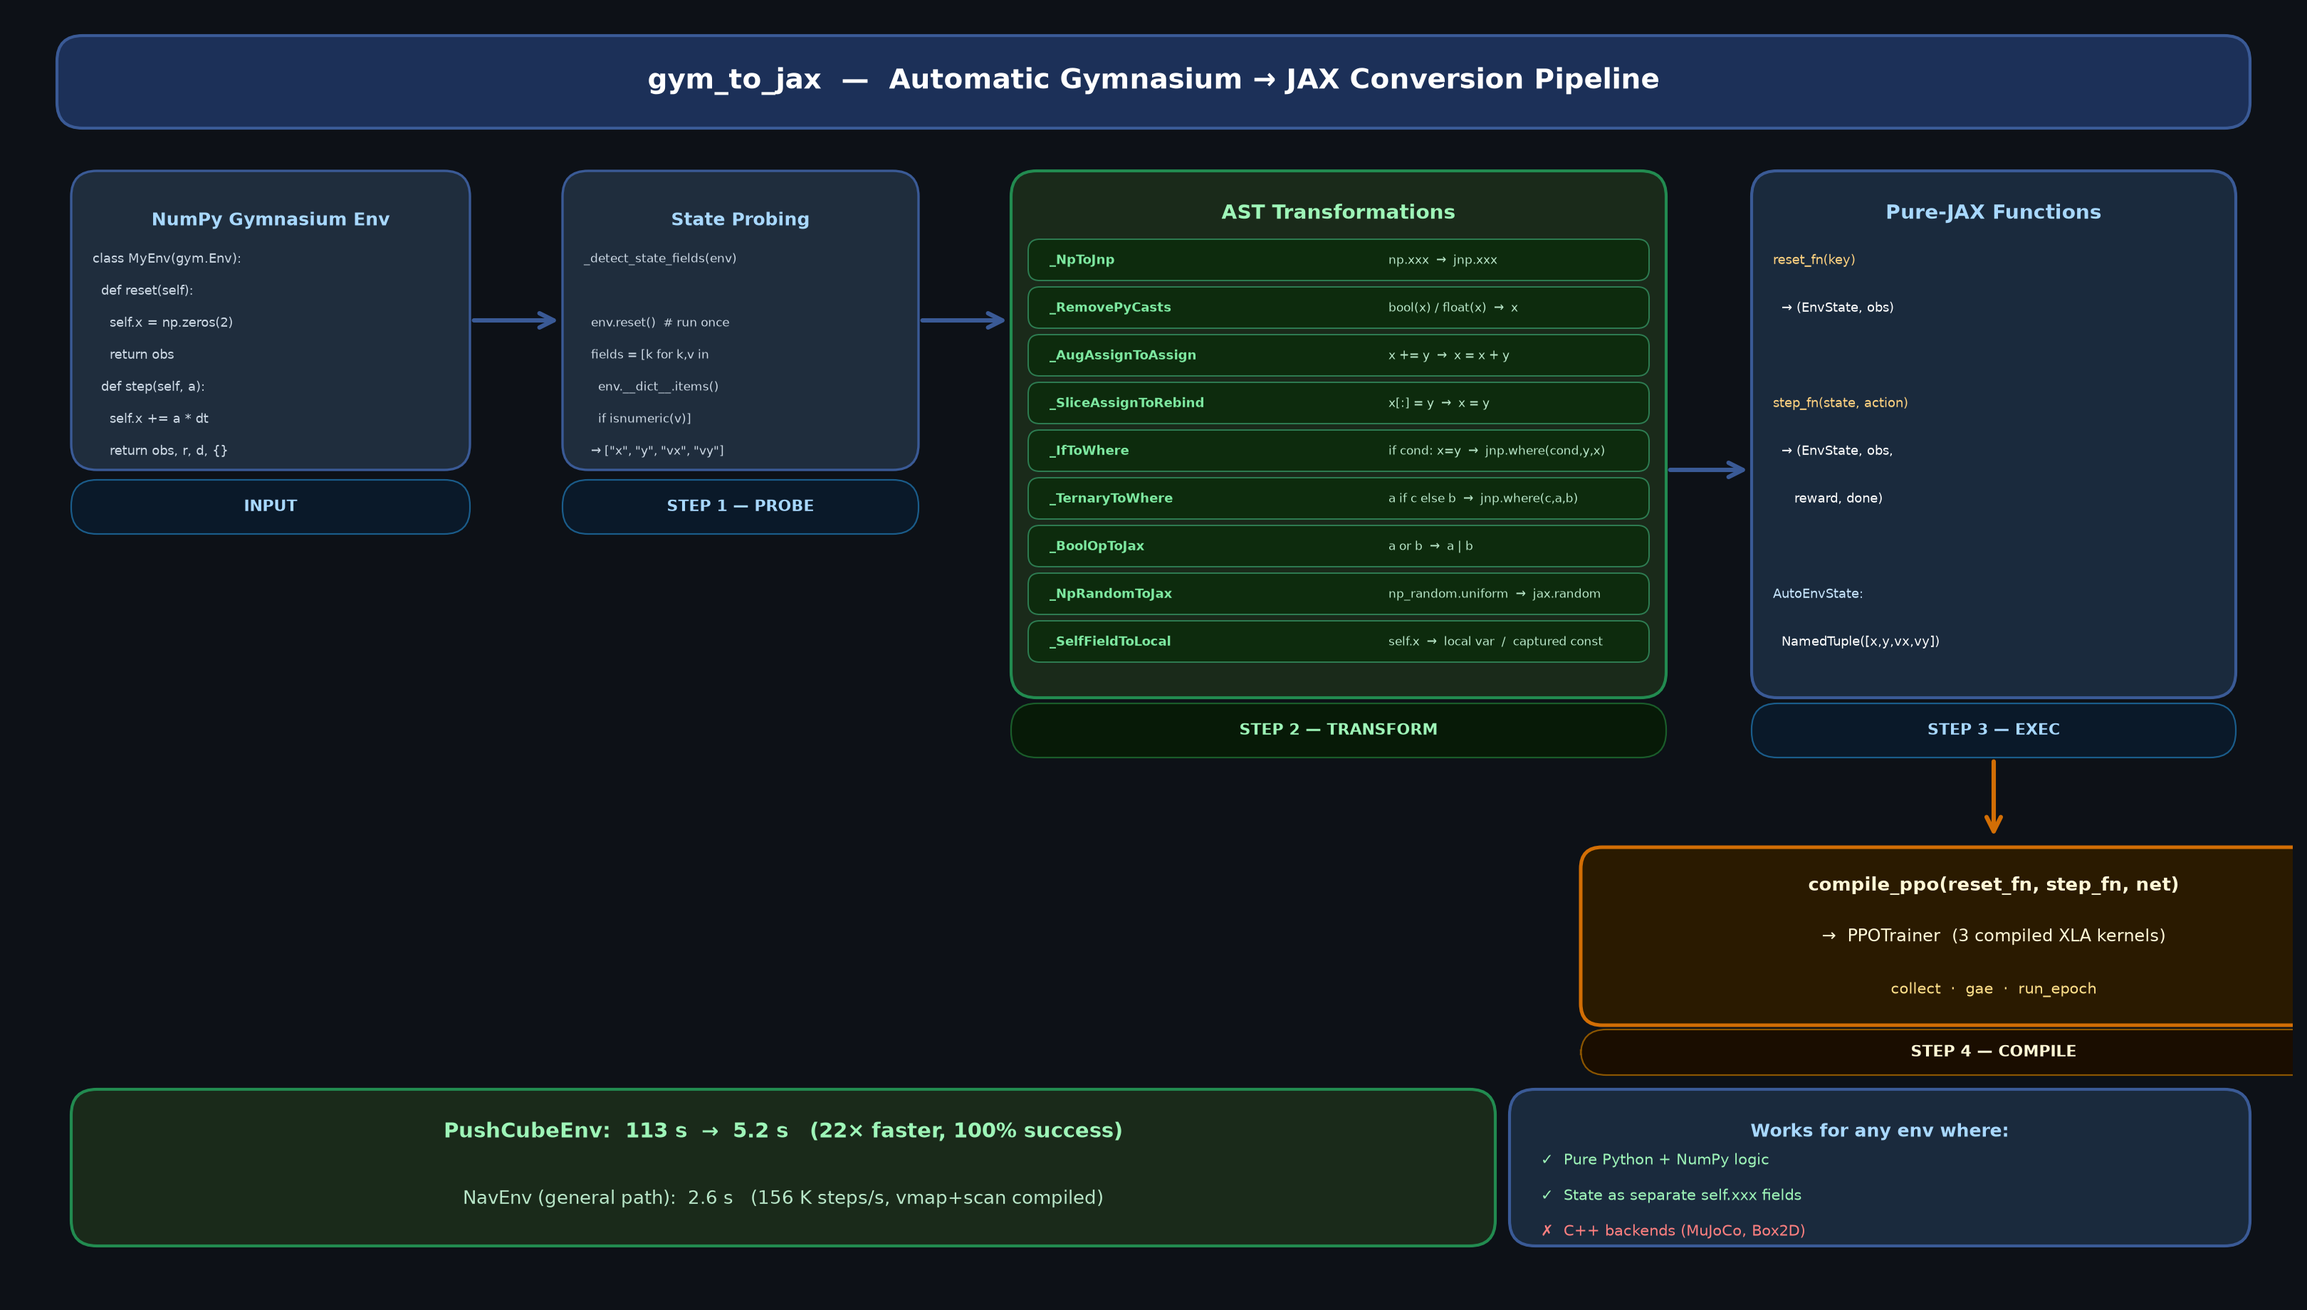
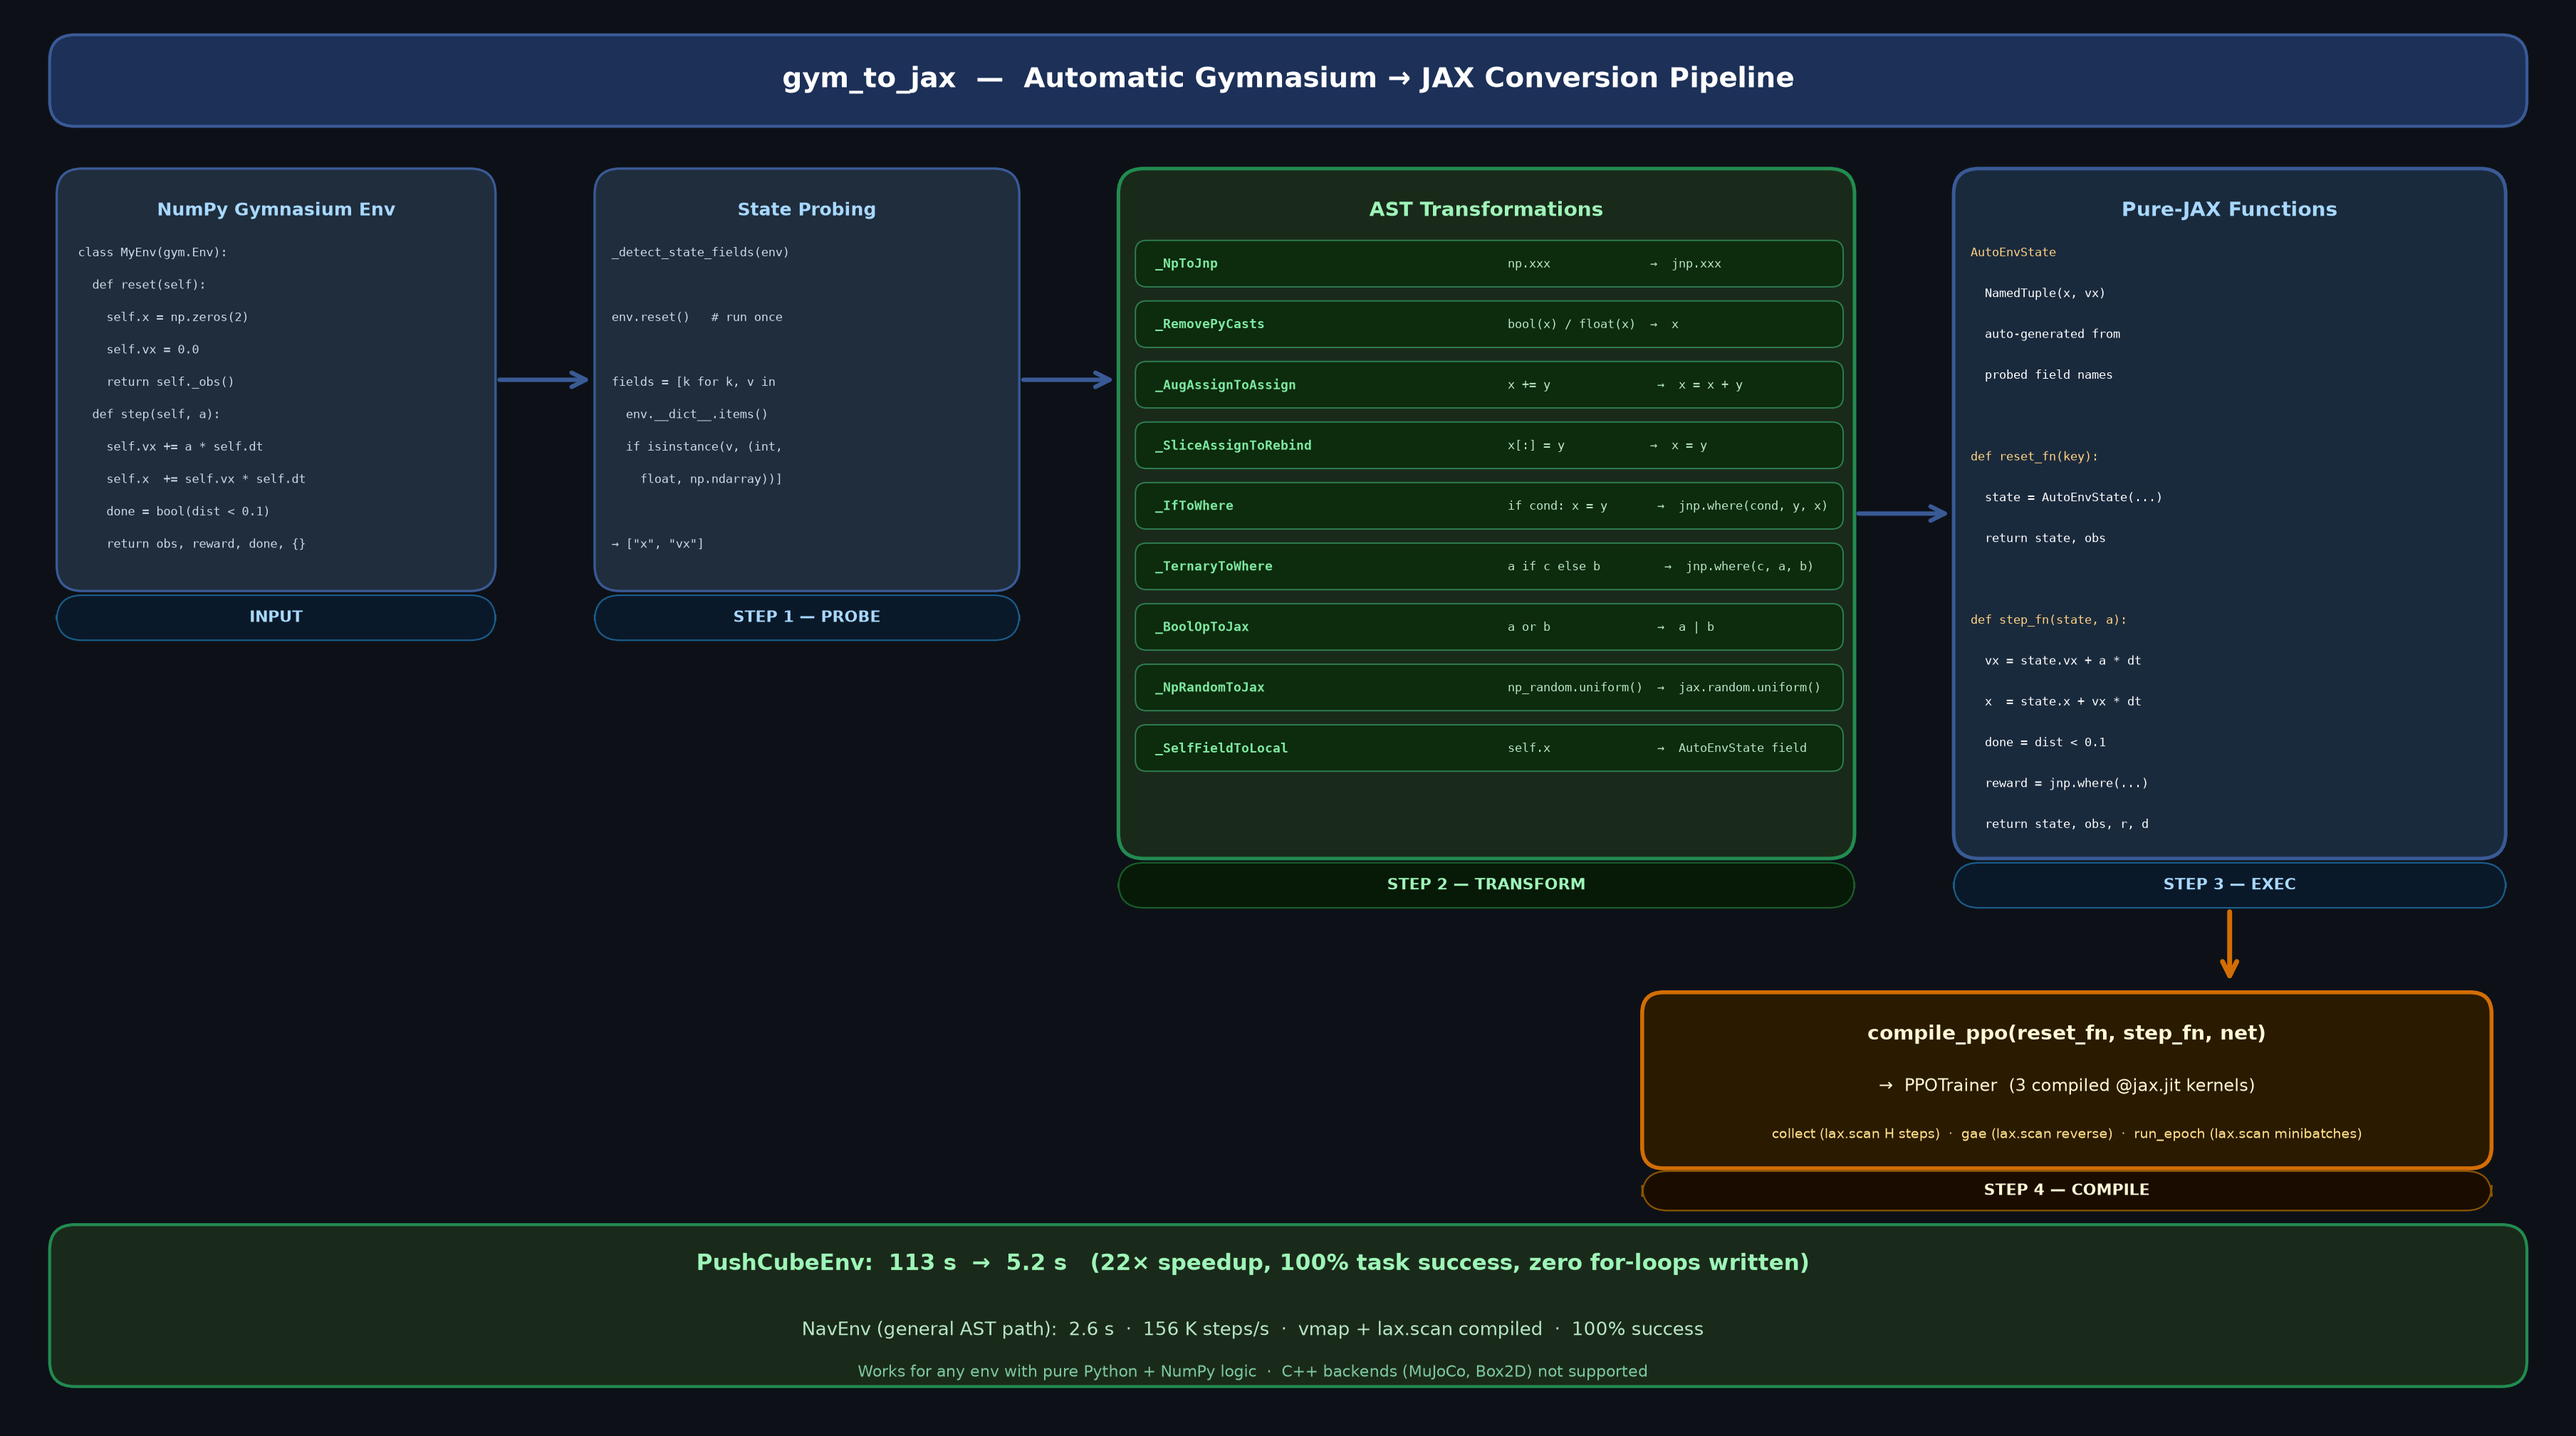
Fix AST diagram clipping, reorder README: robots→framework→AST→results, expand compile_ppo kernel docs

Changed region(s): [[0.0, 0.0, 0.9975, 0.9913]]

diff --git a/README.md b/README.md
@@ -10,15 +10,123 @@
 
 <br>
 
-![Pipeline diagram](assets/plots/pipeline_diagram.png)
+Contact-rich robot manipulation is bottlenecked by Python interpreter overhead. Every PPO gradient update requires thousands of env steps, all gated by `for` loops that stall the CPU waiting for the interpreter instead of computing. This project eliminates those bottlenecks by compiling the full training loop into JAX/XLA — and ships two tools that let you do it for **any Gymnasium env** without rewriting it by hand.
 
-Contact-rich robot manipulation is bottlenecked by Python interpreter overhead. Every PPO gradient update requires thousands of env steps, all gated by `for` loops that stall the CPU waiting for the interpreter instead of computing. This project eliminates those bottlenecks by compiling the full training loop into JAX/XLA — and ships two tools that let you do it for any Gymnasium env without rewriting it by hand.
+We developed two components:
+
+- **`gym_to_jax`** — an AST-based converter that takes any NumPy Gymnasium env and produces `vmap`/`scan`-safe pure JAX functions automatically, via a pipeline of 9 source transformers
+- **`compile_ppo`** — a one-call framework that wraps any `(reset_fn, step_fn)` pair into three compiled `@jax.jit` kernels covering rollout collection, GAE, and minibatch updates — zero `for`-loops written by the caller
+
+Together they take a standard NumPy Gymnasium env to a 22× faster compiled training loop with a three-line call.
+
+---
+
+## Framework
+
+```
+NumPy Gymnasium env
+        │
+        ▼  gym_to_jax()   [9 AST transformers → pure JAX functions]
+(reset_fn, step_fn)
+        │
+        ▼  compile_ppo()  [jax.jit + lax.scan compilation]
+  PPOTrainer
+  ├── collect()     jax.jit — lax.scan over H steps, vmap over N envs, auto-reset
+  ├── gae()         jax.jit — lax.scan(reverse=True) advantage estimation
+  └── run_epoch()   jax.jit — lax.scan over shuffled minibatches per epoch
+```
+
+```python
+from ewm.gym_to_jax import gym_to_jax
+from ewm.jax_convert import compile_ppo, PPOConfig
+
+reset_fn, step_fn = gym_to_jax(MyEnv)                                   # convert
+trainer = compile_ppo(reset_fn, step_fn, net, obs_dim=4, action_dim=2)  # compile
+result  = trainer.train(PPOConfig(num_envs=256, updates=300), seed=0)   # train
+# → {"wall_time_s": 5.2, "steps_per_second": 118500}   (22× vs Python baseline)
+```
+
+### `gym_to_jax` — AST conversion pipeline
+
+![AST pipeline](assets/plots/ast_pipeline.png)
+
+`gym_to_jax` parses the source of any NumPy Gymnasium env, applies nine AST transformers, and `exec`s the result to produce a `(reset_fn, step_fn)` pair compatible with `jax.jit`, `jax.vmap`, and `jax.lax.scan`. State structure is discovered automatically by probing `env.__dict__` after `reset()`.
+
+**Before** (standard NumPy Gymnasium env):
+```python
+def step(self, action):
+    self.vx += action[0] * self.dt       # augmented assign
+    self.x  += self.vx * self.dt
+    dist     = np.linalg.norm(self.x - self.goal)
+    done     = bool(dist < 0.1)          # Python cast
+    reward   = float(dist < 0.1)
+    return self._obs(), reward, done, {}
+```
+
+**After** (auto-generated — `vmap`/`scan`-safe):
+```python
+def step_fn(state, action):
+    vx = state.vx + action[0] * dt      # AugAssign → rebind
+    x  = state.x  + vx * dt
+    dist   = jnp.linalg.norm(x - goal)  # np → jnp
+    done   = dist < 0.1                  # bool() removed
+    reward = jnp.where(done, 1.0, 0.0)  # ternary → jnp.where
+    return AutoEnvState(x=x, vx=vx), obs_fn(x), reward, done
+```
+
+| Transformer | Before | After |
+|---|---|---|
+| `_NpToJnp` | `np.linalg.norm(x)` | `jnp.linalg.norm(x)` |
+| `_RemovePyCasts` | `bool(x)`, `float(x)` | `x` |
+| `_AugAssignToAssign` | `x += y` | `x = x + y` |
+| `_SliceAssignToRebind` | `x[:] = y` | `x = y` |
+| `_IfToWhere` | `if cond: x = y` | `x = jnp.where(cond, y, x)` |
+| `_TernaryToWhere` | `a if c else b` | `jnp.where(c, a, b)` |
+| `_BoolOpToJax` | `a or b` / `a and b` | `a \| b` / `a & b` |
+| `_NpRandomToJax` | `self.np_random.uniform(lo, hi)` | `jax.random.uniform(key, minval=lo, maxval=hi)` |
+| `_SelfFieldToLocal` | `self.x`, `self.vx` | local vars packed into `AutoEnvState` NamedTuple |
+
+**Compatibility:** pure Python + NumPy logic with separate `self.field` state vars. Envs with C++ backends (MuJoCo, Box2D) cannot be auto-converted.
+
+### `compile_ppo` — three compiled XLA kernels
+
+**Kernel 1 — `collect(states, obs, params, key)`**
+
+Runs `H` steps across `N` parallel envs as a single `lax.scan`. Inside, `jax.vmap(step_fn)` batches all envs into one SIMD call. Done envs are reset functionally via `jnp.where` — no Python branching.
+
+```python
+(states, obs, params), traj = jax.lax.scan(step_body, carry, None, length=H)
+# traj: _Trajectory buffer shaped (H, N, …)
+```
+
+**Kernel 2 — `gae(rewards, values, dones, last_value)`**
+
+GAE backward pass as `lax.scan(reverse=True)` — no Python backward loop.
+
+```
+δₜ = rₜ + γ·V(sₜ₊₁)·(1−dₜ) − V(sₜ)
+Aₜ = δₜ + γλ·(1−dₜ)·Aₜ₊₁
+```
+
+```python
+_, adv = jax.lax.scan(gae_step, (zeros, last_value), (rewards, values, dones), reverse=True)
+```
+
+**Kernel 3 — `run_epoch(params, opt_state, key, obs, actions, …)`**
+
+Shuffles the flattened trajectory and runs one PPO epoch across all minibatches via `lax.scan`. Each minibatch computes clipped surrogate loss + value loss + entropy bonus and applies an Adam step.
+
+```python
+(params, opt_state), losses = jax.lax.scan(_update_mb, (params, opt_state), minibatches)
+```
 
 ---
 
 ## Results
 
 ![Speedup bar charts](assets/plots/speedup_bars.png)
+
+![Pipeline diagram](assets/plots/pipeline_diagram.png)
 
 ### End-to-end training (16 envs, 300 updates, H=128)
 
@@ -30,7 +138,7 @@ Contact-rich robot manipulation is bottlenecked by Python interpreter overhead. 
 
 All reach **100% task success**. The speedup is lossless.
 
-The 17× end-to-end vs 7.8× rollout-only gap comes from the GAE backward pass and minibatch loop each also being compiled; eliminating just one loop undersells the gain.
+The 17× end-to-end vs 7.8× rollout-only gap comes from the GAE backward pass and minibatch loop each also being compiled — eliminating just one loop undersells the gain.
 
 ### Throughput scaling (rollout collection only)
 
@@ -51,150 +159,6 @@ Tier 2 plateaus at ~100K steps/s — the Python loop is O(N) serial. Tier 4 scal
 | bfloat16 | 32.2 s | 101,700 | 100% |
 
 **bf16 is 30% slower on CPU** — x86 has no native bf16 compute units. On GPU (A100/H100 Tensor Cores) the same code yields ~1.5–2× speedup instead.
-
----
-
-## The training loop — where time actually goes
-
-Three Python `for`-loops gate every training update. Each stalls the CPU waiting for the interpreter:
-
-| # | Bottleneck | Python | JAX replacement |
-|---|---|---|---|
-| 1 | Parallel env steps | `for env in envs: env.step(a)` | `jax.vmap(step)` — one SIMD kernel |
-| 2 | Rollout collection | `for t in range(H): …` | `jax.lax.scan` — single XLA graph |
-| 3 | GAE + minibatch updates | Python backward loop + per-minibatch for-loop | `lax.scan(reverse=True)` + scanned epochs |
-
-Fixing all three requires the environment to be a **pure stateless JAX function** — no Python objects, no mutation — so XLA can trace through it. The framework below handles this conversion automatically.
-
----
-
-## Framework
-
-Two tools together form the full pipeline: `gym_to_jax` converts an existing env into JAX-compilable pure functions, and `compile_ppo` compiles those functions into three XLA kernels that cover the entire training loop.
-
-```
-NumPy Gymnasium env
-        │
-        ▼  gym_to_jax()   [AST transform → pure functions]
-(reset_fn, step_fn)
-        │
-        ▼  compile_ppo()  [jax.jit + lax.scan compilation]
-  PPOTrainer
-  ├── collect()     jax.jit  lax.scan over H steps, vmap over N envs
-  ├── gae()         jax.jit  lax.scan(reverse=True) advantage estimation
-  └── run_epoch()   jax.jit  lax.scan over minibatches per epoch
-```
-
-### `gym_to_jax` — automatic env conversion
-
-![AST pipeline](assets/plots/ast_pipeline.png)
-
-`gym_to_jax` parses the source code of any NumPy Gymnasium env, runs it through a pipeline of AST transformers, and `exec`s the result to produce a `(reset_fn, step_fn)` pair that is `jax.jit`, `jax.vmap`, and `jax.lax.scan` compatible.
-
-**Before** (standard NumPy Gymnasium env):
-```python
-def step(self, action):
-    self.vx += action[0] * self.dt
-    self.x  += self.vx * self.dt
-    dist     = np.linalg.norm(self.x - self.goal)
-    done     = bool(dist < 0.1)
-    reward   = float(dist < 0.1)
-    return self._obs(), reward, done, {}
-```
-
-**After** (auto-generated pure function — `vmap`/`scan`-safe):
-```python
-def step_fn(state, action):
-    vx = state.vx + action[0] * dt     # AugAssign → rebind
-    x  = state.x  + vx * dt
-    dist   = jnp.linalg.norm(x - goal) # np → jnp
-    done   = dist < 0.1                 # bool() removed
-    reward = jnp.where(done, 1.0, 0.0) # ternary → jnp.where
-    return AutoEnvState(x=x, vx=vx, ...), obs_fn(x), reward, done
-```
-
-Nine AST transformers handle the conversion:
-
-| Transformer | Before | After |
-|---|---|---|
-| `_NpToJnp` | `np.linalg.norm(x)` | `jnp.linalg.norm(x)` |
-| `_RemovePyCasts` | `bool(x)`, `float(x)`, `int(x)` | `x` |
-| `_AugAssignToAssign` | `x += y` | `x = x + y` |
-| `_SliceAssignToRebind` | `x[:] = y` | `x = y` |
-| `_IfToWhere` | `if cond: x = y` | `x = jnp.where(cond, y, x)` |
-| `_TernaryToWhere` | `a if c else b` | `jnp.where(c, a, b)` |
-| `_BoolOpToJax` | `a or b` / `a and b` | `a \| b` / `a & b` |
-| `_NpRandomToJax` | `self.np_random.uniform(lo, hi)` | `jax.random.uniform(key, minval=lo, maxval=hi)` |
-| `_SelfFieldToLocal` | `self.x`, `self.vx` | local vars packed into `AutoEnvState` NamedTuple |
-
-State structure is discovered by probing the env with `reset()` and scanning `__dict__` for numeric fields, which are used to generate a typed `AutoEnvState` NamedTuple automatically.
-
-**Compatibility:** pure Python + NumPy logic with separate `self.field` state vars. Envs with C++ backends (MuJoCo, Box2D) cannot be auto-converted.
-
----
-
-### `compile_ppo` — three compiled XLA kernels
-
-`compile_ppo` takes any `(reset_fn, step_fn)` pair (from `gym_to_jax` or hand-written) and compiles three `@jax.jit` kernels that cover the entire PPO training loop. The caller never writes a `for`-loop.
-
-```python
-from ewm.gym_to_jax import gym_to_jax
-from ewm.jax_convert import compile_ppo, PPOConfig
-
-reset_fn, step_fn = gym_to_jax(MyEnv)
-trainer = compile_ppo(reset_fn, step_fn, net, obs_dim=4, action_dim=2)
-result  = trainer.train(PPOConfig(num_envs=256, updates=300), seed=0)
-# → {"wall_time_s": 5.2, "steps_per_second": 118500, "total_steps": 614400}
-```
-
-**Kernel 1 — `collect(states, obs, params, key)`**
-
-Runs `H` environment steps across `N` parallel envs. Implemented as `jax.lax.scan` over a `step_body` that calls `jax.vmap(step_fn)` inside. Auto-reset is handled functionally with `jnp.where` — done envs select a freshly-reset state without branching. Returns a `_Trajectory` buffer of shape `(H, N, …)`.
-
-```python
-(states, obs, params), traj = jax.lax.scan(step_body, carry, None, length=H)
-```
-
-**Kernel 2 — `gae(rewards, values, dones, last_value)`**
-
-Computes Generalized Advantage Estimation over the trajectory buffer in a single backward pass. Implemented as `jax.lax.scan(reverse=True)` — no Python backward loop.
-
-```
-δₜ = rₜ + γ·V(sₜ₊₁)·(1−dₜ) − V(sₜ)
-Aₜ = δₜ + γλ·(1−dₜ)·Aₜ₊₁
-```
-
-```python
-_, adv = jax.lax.scan(gae_step, (zeros, last_value), (rewards, values, dones), reverse=True)
-```
-
-**Kernel 3 — `run_epoch(params, opt_state, key, obs, actions, …)`**
-
-Shuffles the flattened trajectory buffer and runs one PPO epoch across all minibatches via `jax.lax.scan`. Each minibatch computes the clipped surrogate loss + value loss + entropy bonus and applies an Adam gradient step.
-
-```python
-(params, opt_state), losses = jax.lax.scan(_update_mb, (params, opt_state), minibatches)
-```
-
-**Config:**
-
-```python
-PPOConfig(
-    num_envs=256, horizon=128, updates=300,
-    epochs=4, minibatch_size=256,
-    gamma=0.99, lam=0.95, clip_ratio=0.2,
-    lr=3e-4, value_coef=0.5, entropy_coef=0.01,
-)
-```
-
-**Results — PushCubeEnv (16 envs, 300 updates):**
-
-| | Tier 2 | Tier 4 | `compile_ppo` |
-|---|---|---|---|
-| Wall time | 113 s | 6.7 s | **5.2 s** |
-| Steps/s | 5,440 | 91,700 | **118,500** |
-| Speedup | 1× | 17× | **22×** |
-| Success | 100% | 100% | 100% |
 
 ---
 
